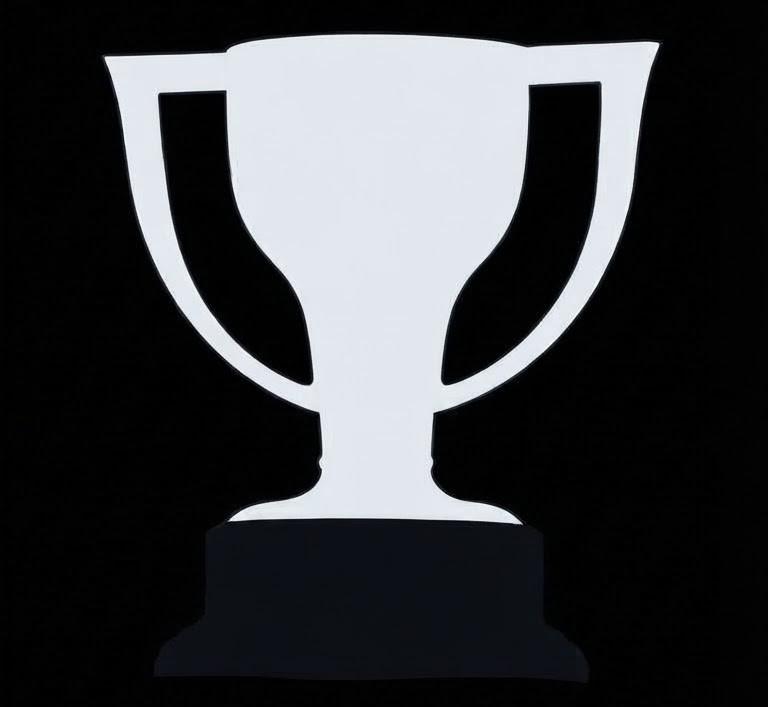
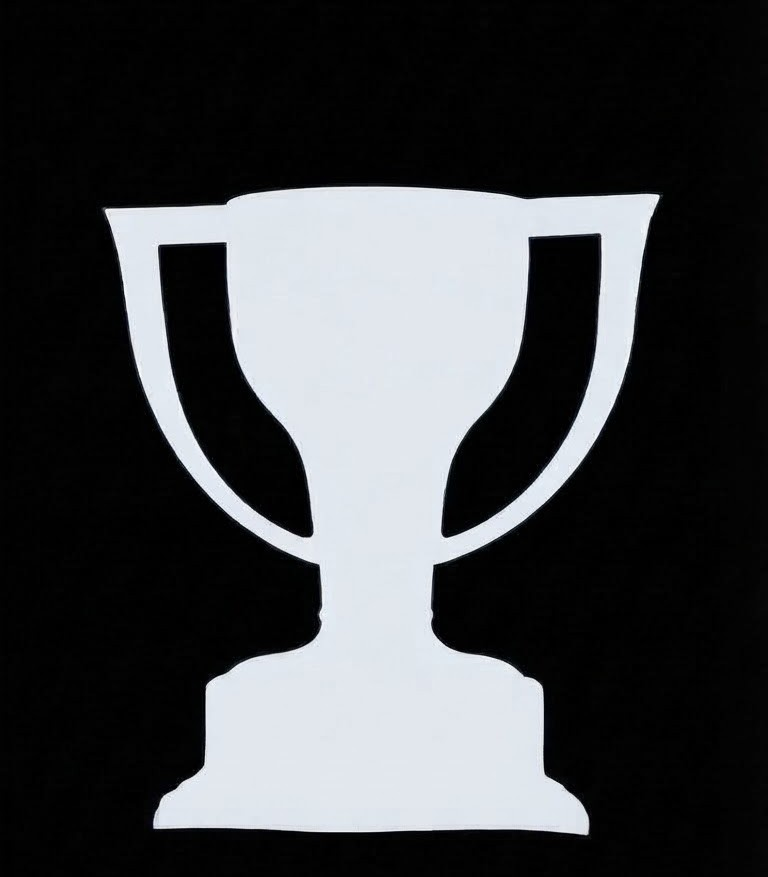
add more barca players

Changed region(s): [[0.125, 0.0311, 0.875, 0.9646]]

diff --git a/src/components/Modal.tsx b/src/components/Modal.tsx
@@ -23,7 +23,7 @@ export function Methodology({ onClose }: { onClose: () => void }) {
       <div><span className="eyebrow">THE SILVERWARE</span><h3>Three competitions.</h3><p>LaLiga, Champions League, and Copa del Rey titles secured since 1993. We use the day a title was won. Super cups are excluded. <a href="https://www.fcbarcelona.com/en/football/first-team/honours" target="_blank" rel="noreferrer">Club honours</a></p></div>
     </div>
     <h3>Your birthday sets the starting line.</h3><p>Matches and honours on your birthday count. If you were born before the archive begins, your league record starts with the oldest available season. If you were born after our last recorded match, we show an empty record. This is a historical snapshot, not a live feed.</p>
-    <h3>A few more things worth knowing.</h3><p>The player closest to your age is chosen from 100 Barça players aged 25–40. Manager history starts in July 1917. “Nights we carry” is a curated selection of 20 moments from 1989 onward, across competitions, so those cup matches are separate from your LaLiga totals.</p>
+    <h3>A few more things worth knowing.</h3><p>The player closest to your age is chosen from our historical player selection and the current first-team roster. Manager history starts in July 1917. “Nights we carry” is a curated selection of 20 moments from 1989 onward, across competitions, so those cup matches are separate from your LaLiga totals.</p>
     <p>Your birthday stays in this page’s memory. It isn’t uploaded, tracked, or saved.</p>
     <div className="credits-block"><p><strong>Made with a culer’s heart.</strong> Independent and unaffiliated with FC Barcelona. Concept inspired by <a href="https://passmode.shop/numbers/" target="_blank" rel="noreferrer">@bootifulgame’s Arsenal Life in Numbers</a>.</p><p>Camp Nou photograph by <a href="https://commons.wikimedia.org/wiki/File:Camp_Nou_aerial.jpg" target="_blank" rel="noreferrer">Oh-Barcelona.com</a>, <a href="https://creativecommons.org/licenses/by/2.0/" target="_blank" rel="noreferrer">CC BY 2.0</a>. Cropped and colour-treated.</p><p>Team crests sourced from <a href="https://www.footylogos.com/" target="_blank" rel="noreferrer">Footylogos.com</a>.</p></div>
   </Modal>;

diff --git a/src/data/history.ts b/src/data/history.ts
@@ -162,12 +162,28 @@ const allPlayers = [
 ['Thiago Alcântara', '1991-04-11'], ['Isaac Cuenca', '1991-04-27'],
 ].map(([name, birthday]) => ({ name, birthday }));
 
+// Current men's first-team roster snapshot for the 2026/27 season.
+const currentFirstTeamPlayers = [
+  ['Joan García', '2001-05-04'], ['Wojciech Szczęsny', '1990-04-18'], ['Dominik Livaković', '1995-01-09'],
+  ['Eder Aller', '2008-01-01'], ['João Cancelo', '1994-05-27'], ['Alejandro Balde', '2003-10-18'],
+  ['Pau Cubarsí', '2007-01-22'], ['Xavi Espart', '2007-01-01'], ['Andreas Christensen', '1996-04-10'],
+  ['Gerard Martín', '2002-02-26'], ['Jules Koundé', '1998-11-12'], ['Eric García', '2001-01-09'],
+  ['Jordi Pesquer', '2008-01-01'], ['Brian Fariñas', '2006-02-09'], ['Gavi', '2004-08-05'],
+  ['Fermín López', '2003-05-11'], ['Pedri', '2002-11-25'], ['Rodri', '1996-06-22'],
+  ['Dani Olmo', '1998-05-07'], ['Frenkie de Jong', '1997-05-12'], ['Marc Bernal', '2007-05-26'],
+  ['Jesse Bisiwu', '2008-01-01'], ['Gabriel Jesus', '1997-04-03'], ['Lamine Yamal', '2007-07-13'],
+  ['Raphinha', '1996-12-14'], ['Karim Adeyemi', '2002-01-18'], ['Anthony Gordon', '2001-02-24'],
+  ['Roony Bardghji', '2005-11-15'], ['Hamza Abdelkarim', '2005-01-01'], ['Toni Fernández', '2008-02-15'],
+].map(([name, birthday]) => ({ name, birthday }));
+
 // Keep the peer comparison focused on players aged 25–40 on 9 September 2026.
 const playerSelectionStart = '1986-09-10';
 const playerSelectionEnd = '2001-09-09';
-export const players = allPlayers
+const agePeers = allPlayers
   .filter(({ birthday }) => birthday >= playerSelectionStart && birthday <= playerSelectionEnd)
   .slice(0, 100);
+export const players = [...agePeers, ...currentFirstTeamPlayers]
+  .filter((player, index, list) => list.findIndex(({ name }) => name === player.name) === index);
 
 export const moments = [
   { date: '1989-05-10', tag: 'THE RETURN OF JOY', title: 'A trophy in Bern.', score: '2 — 0', opponent: 'Sampdoria', competition: 'European Cup Winners’ Cup final', description: 'Koeman’s free kick and a team that refused to let the dream drift away. Europe belonged to Barça again.', color: 'blue' },

diff --git a/src/components/PersonalChapters.tsx b/src/components/PersonalChapters.tsx
@@ -22,7 +22,7 @@ export function PersonalChapters({ birthday, firstMatch }: { birthday: string; f
                     <img src="/assets/trophies/fc-barcelona-2026-27-home.png" alt="" draggable="false" />
                     <div className="shirt-personalisation"><span>{peer?.name.split(' ').at(-1) ?? 'BARÇA'}</span><strong>{peer?.birthday.slice(2, 4) ?? '26'}</strong></div>
                 </div>
-                <p className="note-kicker">The Barça player closest to your age</p><h3>{peer?.name}</h3><p className="note-description">{peer?.gap === 0 ? 'The same birthday. Some things are just meant to be.' : <>Born {peer && formatDate(peer.birthday)}.<br />Just {number(peer?.gap ?? 0)} days between your stories.</>}</p><span className="curation-note">From our selection of 100 Barça players aged 25–40.</span>
+                <p className="note-kicker">The Barça player closest to your age</p><h3>{peer?.name}</h3><p className="note-description">{peer?.gap === 0 ? 'The same birthday. Some things are just meant to be.' : <>Born {peer && formatDate(peer.birthday)}.<br />Just {number(peer?.gap ?? 0)} days between your stories.</>}</p>
             </article>
             <article className="personal-note first-match-note">
                 <div className="note-label"><span>THE FIRST WHISTLE</span><span>03</span></div>

diff --git a/src/components/stories.css b/src/components/stories.css
@@ -38,7 +38,7 @@
 .trophy-europe .trophy-count { color: var(--garnet); }
 .trophy-cup .trophy-count { color: #8a6334; }
 .trophy-drawing { width: 152px; height: 174px; object-fit: contain; mix-blend-mode: multiply; }
-.trophy-drawing-laliga { filter: invert(1) contrast(1.2); }
+.trophy-drawing-laliga { filter: invert(1) contrast(1.2); transform: scale(.71); }
 .trophy-card h3 { font-family: var(--font-display); font-size: 21px; font-weight: 500; letter-spacing: -.8px; margin-top: 16px; }
 .trophy-card > p { color: var(--muted); font-size: 11px; line-height: 1.5; margin-top: 9px; }
 .trophy-seasons { margin-top: 23px; }
